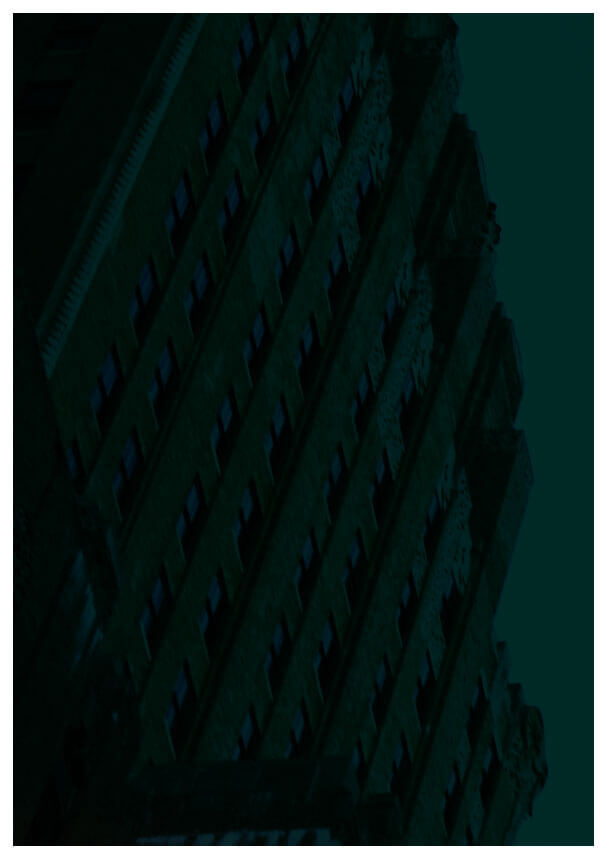
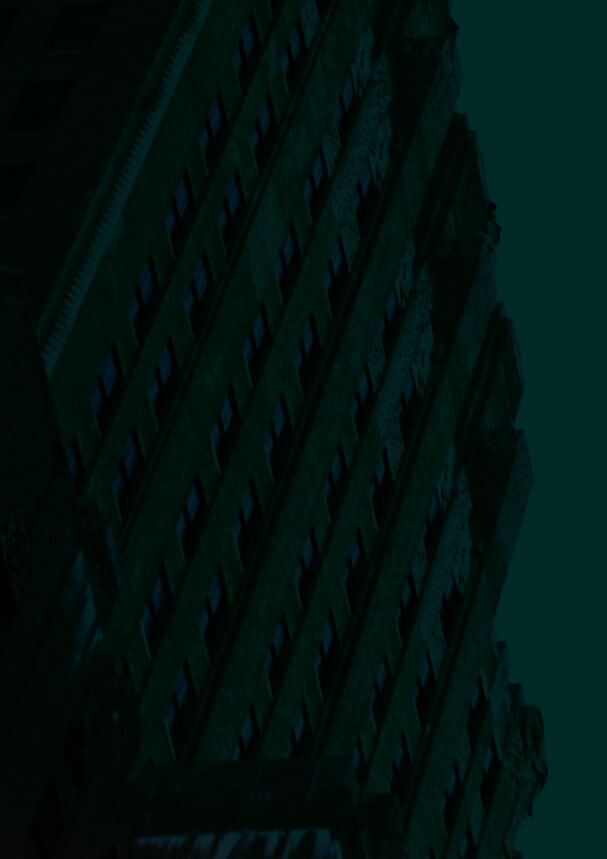
upload omg

Changed region(s): [[0.0, 0.0, 1.0, 1.0]]

diff --git a/src/dist/css/style.css b/src/dist/css/style.css
@@ -1,1 +1,1 @@
[2 lines of base64/hex data omitted]

diff --git a/template/index.html b/template/index.html
@@ -171,18 +171,26 @@
 
         <!-- 点击上传照片-->
         <div class="pin pin-8" id="pin-upload">
-            <div class="upload-wrap">
-                <div class="btn-upload">
-                    <span class="icon">+</span>
-                    点击上传照片
+            <div class="v-content">
+                <div class="upload-wrap">
+                    <img src="/src/images/upload-bg.jpg" alt="upload"/>
+                    <div class="btn-upload">
+                        <span class="icon">+</span>
+                        点击上传照片
+                    </div>
+                    <canvas id="c"></canvas>
                 </div>
-                <canvas id="c"></canvas>
+                <div class="buttons">
+                    <span class="btn-again">换一张</span>
+                    <span class="btn-again">确认</span>
+                </div>
+                <!--<div class="tips">-->
+                    <!--最后，请上传一张趣照-->
+                    <!--以便让大家膜拜-->
+                <!--</div>-->
+                <input type="file" id="capture" accept="image/png,image/jpg,image/gif"/>
             </div>
-            <div class="tips">
-                最后，请上传一张趣照
-                以便让大家膜拜
-            </div>
-            <input type="file" id="capture" accept="image/png,image.jpg,image.gif"/>
+
         </div>
 
 

diff --git a/src/assets/js/controller.js b/src/assets/js/controller.js
@@ -23,6 +23,9 @@
 
         //init the canvas
         this.canvas = new fabric.Canvas('c');
+        this.canvas.setWidth($(window).width()*607/750);
+        this.canvas.setHeight($(window).width()*859/750);
+        console.log($('.upload-wrap').height());
 
     };
     //init
@@ -62,7 +65,7 @@
                 //bind events
                 self.bindEvent();
 
-                Common.gotoPin(6);
+                Common.gotoPin(7);
                 //set all img element width
                 for(var i=0;i<document.getElementsByTagName('img').length;i++){
                     document.getElementsByTagName('img')[i].style.width = document.getElementsByTagName('img')[i].naturalWidth / 100 + 'rem';
@@ -185,9 +188,24 @@
     //    upload img
         //input file change
         $('#capture').on('change', function(e){
-            //var canvaswidth = $('.block-photo').width();;
-            self.uploadPhoto(e.target,300);
+            var canvaswidth = $('.upload-wrap').width();
+            console.log(canvaswidth);
+
+            self.uploadPhoto(e.target,canvaswidth);
+
         });
+
+        //btn-again
+        $('.btn-again').on('click',function(){
+            //render new picture
+            var renderPic = self.canvas.toDataURL({
+                format: 'png',
+                quality: 1
+            });
+            $('.upload-wrap img').attr('src',renderPic);
+        });
+
+
 
     };
 

diff --git a/src/assets/css/style.css b/src/assets/css/style.css
@@ -1113,6 +1113,44 @@ html, body {
   text-indent: -999em;
 }
 
+#pin-upload .upload-wrap {
+  width: 6.07rem;
+  height: 8.59rem;
+  border: #fff 0.1rem solid;
+}
+#pin-upload .btn-upload {
+  position: absolute;
+  left: 50%;
+  top: 50%;
+  -webkit-transform: translate(-50%, -50%);
+  -moz-transform: translate(-50%, -50%);
+  -ms-transform: translate(-50%, -50%);
+  -o-transform: translate(-50%, -50%);
+  transform: translate(-50%, -50%);
+}
+#pin-upload .canvas-container {
+  position: absolute !important;
+  top: 0.1rem;
+  left: 0.1rem;
+  width: 100%;
+  height: 100%;
+}
+#pin-upload .buttons {
+  position: absolute;
+  bottom: -1rem;
+}
+#pin-upload #capture {
+  position: absolute;
+  left: 50%;
+  top: 50%;
+  -webkit-transform: translate(-50%, -50%);
+  -moz-transform: translate(-50%, -50%);
+  -ms-transform: translate(-50%, -50%);
+  -o-transform: translate(-50%, -50%);
+  transform: translate(-50%, -50%);
+  opacity: 0;
+}
+
 #pin-question-1 .question-wrap > img {
   position: relative;
   z-index: 1;

diff --git a/src/assets/scss/_home.scss b/src/assets/scss/_home.scss
@@ -27,3 +27,34 @@
     text-indent: -999em;
   }
 }
+
+//pin-upload
+#pin-upload{
+  .upload-wrap{
+    @include size(6.07rem,8.59rem);
+    border: #fff 0.1rem solid;
+  }
+  .btn-upload{
+    position: absolute;
+    left: 50%;
+    top:50%;
+    @include transform(translate(-50%,-50%));
+  }
+  .canvas-container{
+    position: absolute !important;
+    top: 0.1rem;
+    left: 0.1rem;
+    @include size(100%,100%);
+  }
+  .buttons{
+    position: absolute;
+    bottom: -1rem;
+  }
+  #capture{
+    position: absolute;
+    left: 50%;
+    top:50%;
+    @include transform(translate(-50%,-50%));
+    opacity: 0;
+  }
+}
